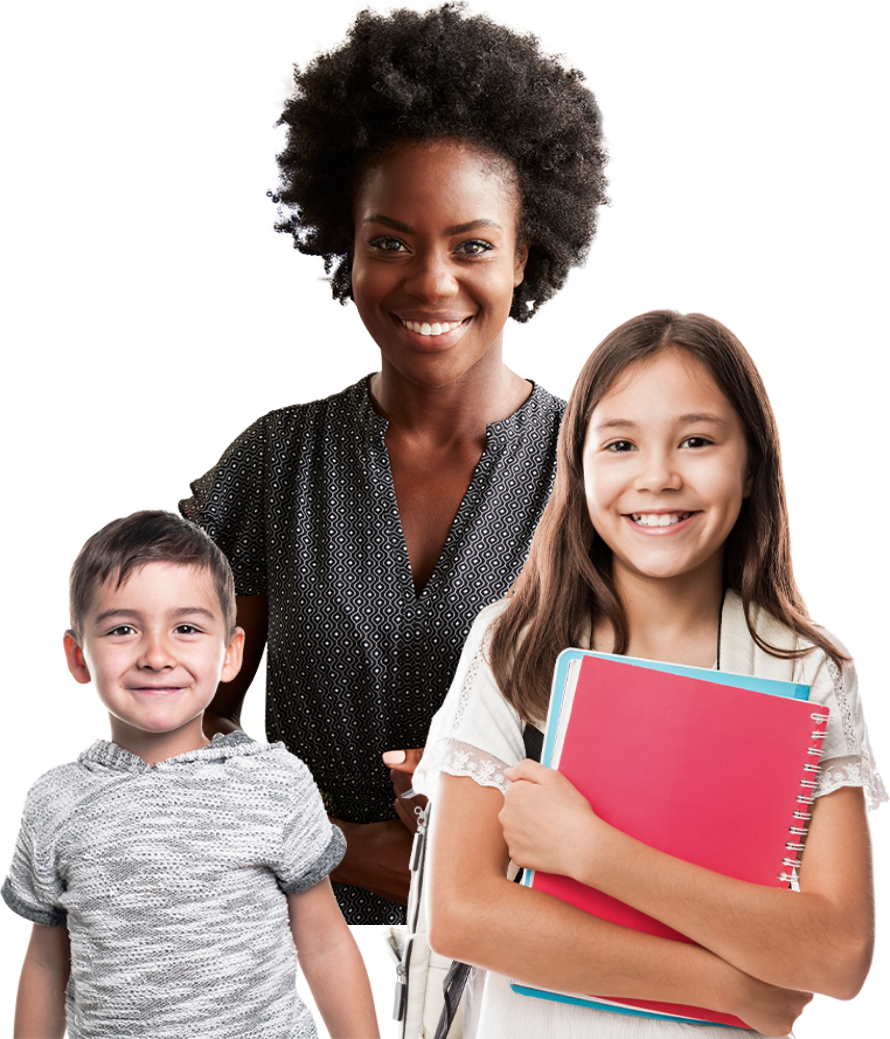
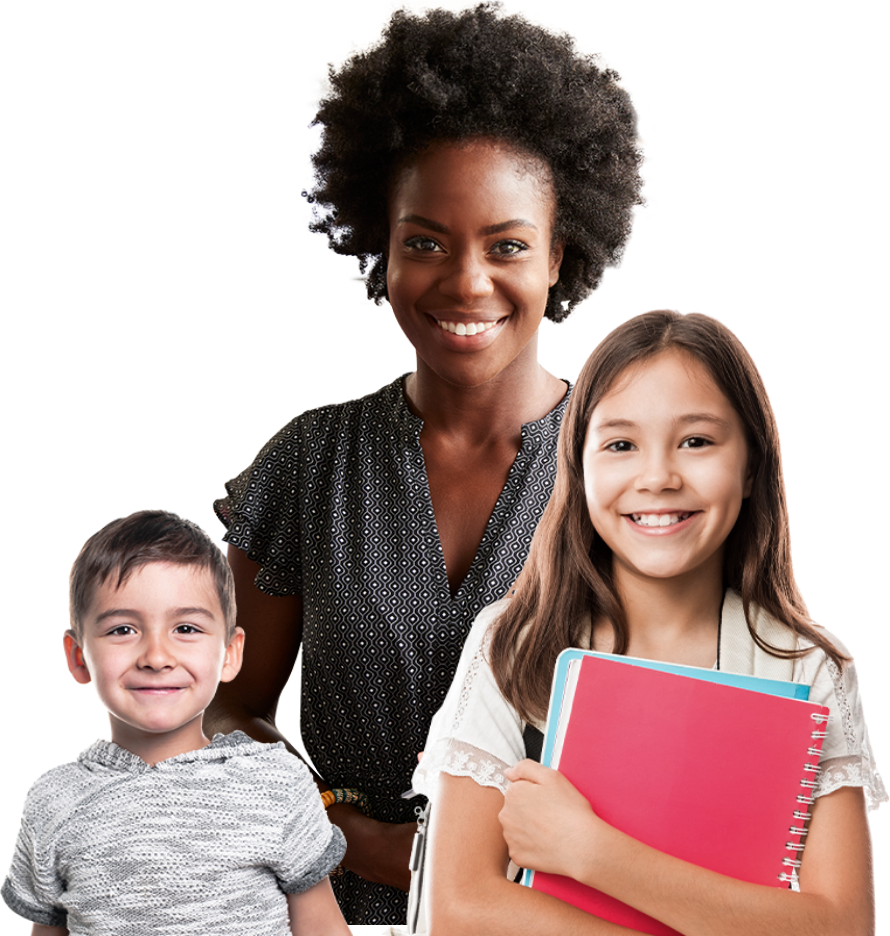
Update no posicionamento da imagem.

diff --git a/app/styles/app.scss b/app/styles/app.scss
@@ -78,6 +78,7 @@
 @import "layout/institutions";
 @import "layout/login";
 @import "layout/select-inst";
+@import "layout/self-registration";
 @import "layout/timeline";
 @import "layout/transition";
 

diff --git a/app/styles/layout/self-registration.scss b/app/styles/layout/self-registration.scss
@@ -1,0 +1,10 @@
+.self-registration {
+  position: relative;
+
+  &__img {
+    bottom: 0;
+    max-width: 46vw;
+    position: absolute;
+    right: -5%;
+  }
+}
